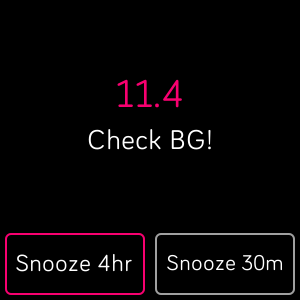
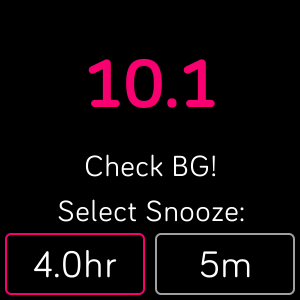
Update Web Content prior to Merge to master branch

diff --git a/resources/styles.css b/resources/styles.css
@@ -159,6 +159,13 @@
   y:10%;
 }
 
+#ButtonLabel {
+  text-anchor: middle;
+  fill: fb-white;
+  x: 50%;
+  y: 75%;
+}
+
 .batteryBorder {
   width: 32;
   height: 32;
